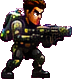
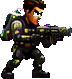
Mold Mission: strip the magenta fringe from the TyGuy cuts
The re-cut sprites had a faint pink halo (~4-5% of edge pixels). Strengthened
cut_tyguy.py: looser background key, a 2-pass erosion of pink-tinted edge pixels
(is_pinkish), and a harder de-spill. Magenta-specific fringe is now 0.1-0.5%
(the rest of what read as "pink" was just Ty's tan skin). Sprites are clean on
a white background — no pink in TyGuy.

Verified: python3 games/mold_mission/mold_mission.py --selftest
-> selftest OK: all 5 missions win

Claude-Session: https://claude.ai/code/session_01C7stTX2MiAL5f8VZvZr1zp

diff --git a/games/mold_mission/cut_tyguy.py b/games/mold_mission/cut_tyguy.py
@@ -32,7 +32,12 @@ POSES = [
 
 
 def is_bg(r, g, b):
-    return r > 150 and g < 120 and b > 72 and (r - g) > 55
+    return r > 140 and g < 125 and b > 62 and (r - g) > 45
+
+
+def is_pinkish(r, g, b):
+    # a magenta-fringe blend pixel (leftover halo on the figure's edge)
+    return r > g + 16 and r > b - 12 and b > 42 and g < 155
 
 
 def keep_largest(alpha, w, h):
@@ -73,19 +78,30 @@ def cut(sheet, box, klargest):
                       for y in range(h) for x in range(w))
     if klargest:
         alpha = keep_largest(alpha, w, h)
+
+    def is_edge(x, y):
+        i = y * w + x
+        return (x == 0 or y == 0 or x == w - 1 or y == h - 1
+                or not alpha[i - 1] or not alpha[i + 1]
+                or (y > 0 and not alpha[i - w])
+                or (y < h - 1 and not alpha[i + w]))
+
+    # peel the magenta halo: erode edge pixels that are still pink-tinted
+    for _ in range(2):
+        clear = [y * w + x for y in range(h) for x in range(w)
+                 if alpha[y * w + x] and is_edge(x, y) and is_pinkish(*px[x, y])]
+        for i in clear:
+            alpha[i] = 0
+
     out = Image.new("RGBA", (w, h))
     op = out.load()
     for y in range(h):
         for x in range(w):
             if alpha[y * w + x]:
                 r, g, b = px[x, y]
-                edge = (x == 0 or y == 0 or x == w - 1 or y == h - 1
-                        or not alpha[y * w + x - 1] or not alpha[y * w + x + 1]
-                        or (y > 0 and not alpha[(y - 1) * w + x])
-                        or (y < h - 1 and not alpha[(y + 1) * w + x]))
-                if edge and r > g + 22 and r > b + 12:   # de-spill pink fringe
-                    r = min(r, int((g + b) * 0.72) + 20)
-                    b = min(b, g + 30)
+                if is_edge(x, y) and r > g + 14 and r > b - 10:  # de-spill fringe
+                    r = min(r, max(g, b))
+                    b = min(b, g + 24)
                 op[x, y] = (r, g, b, 255)
             else:
                 op[x, y] = (0, 0, 0, 0)
